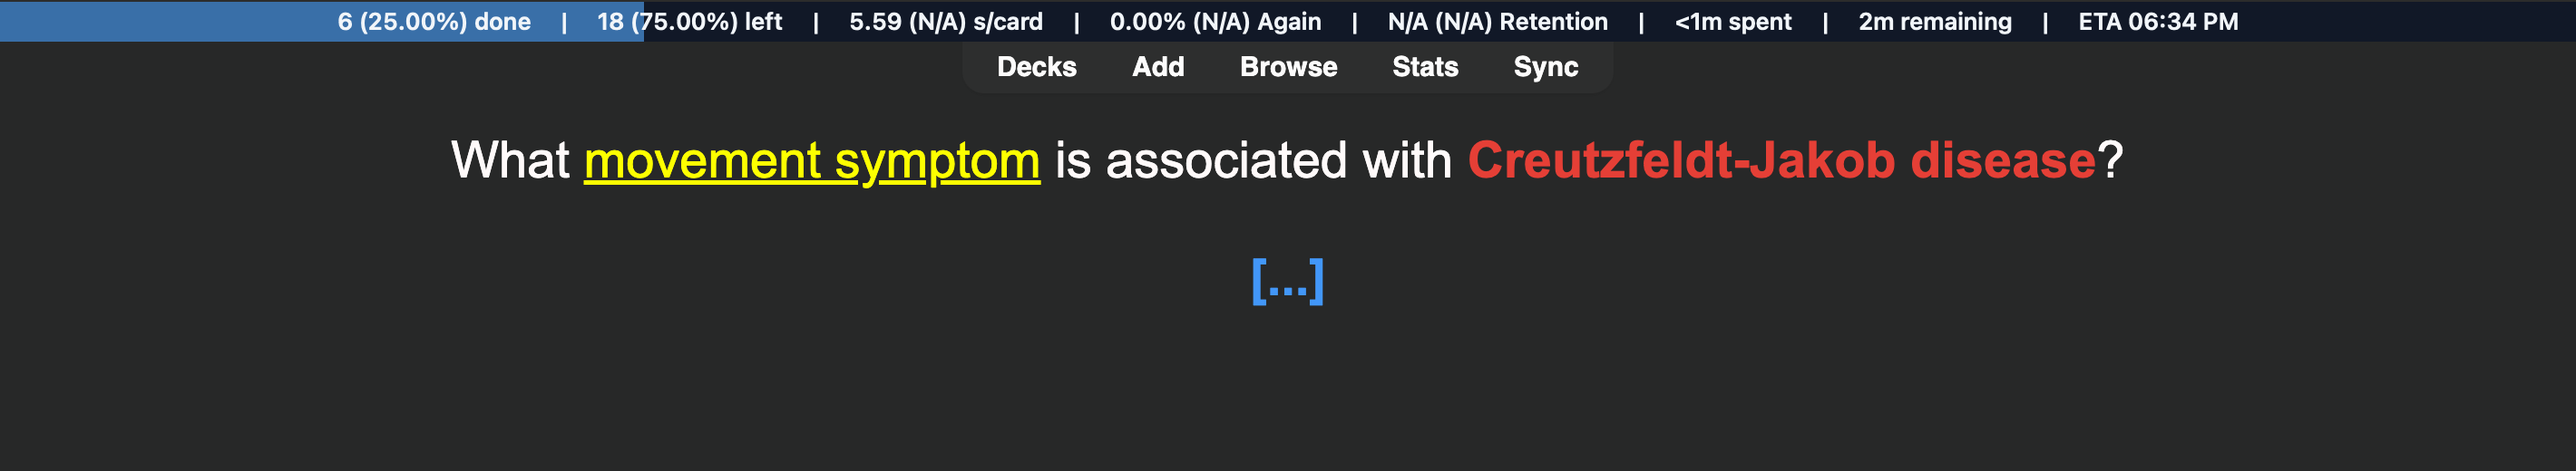
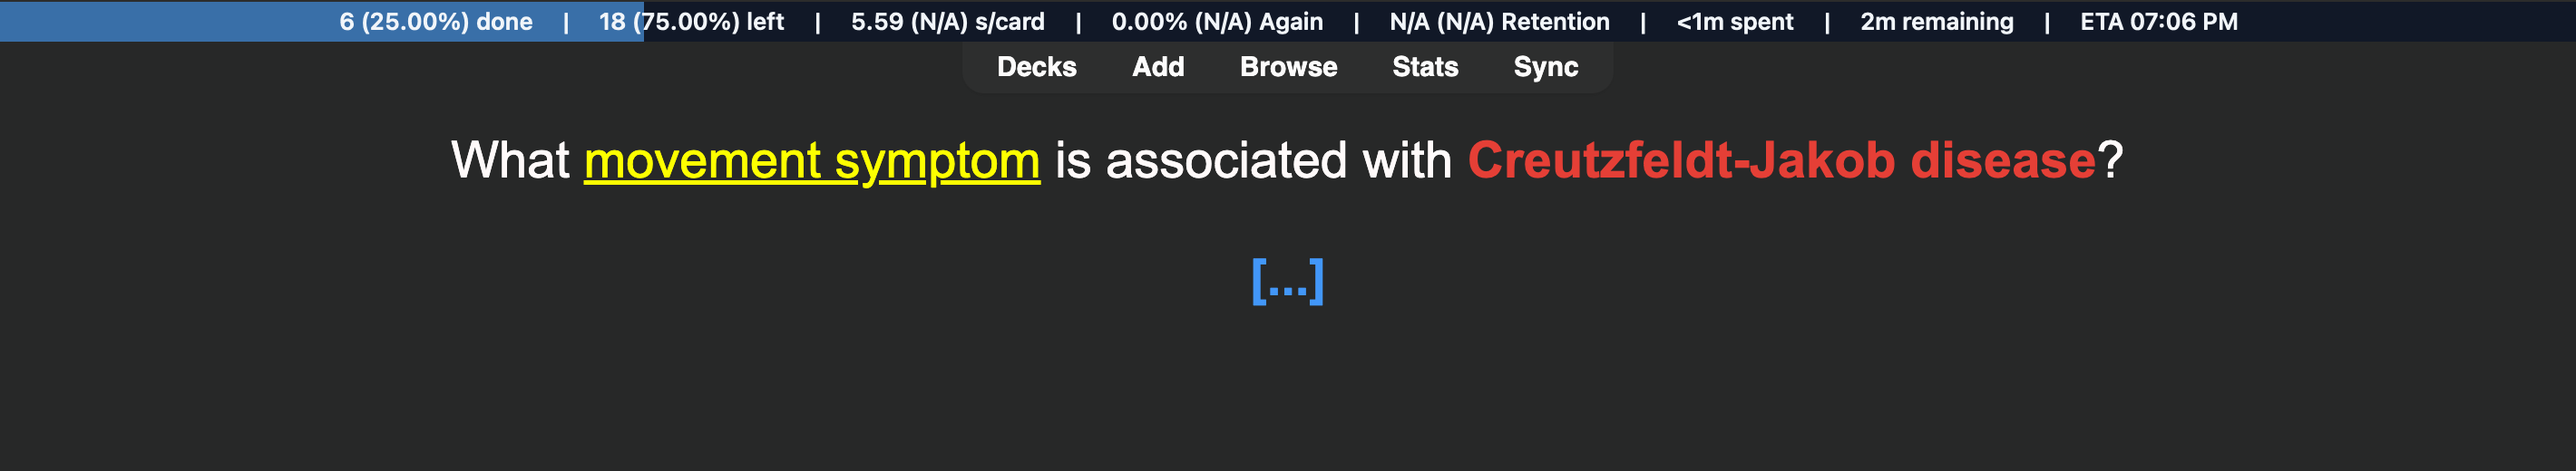
Release v1.1.7 with reviewer-only gallery

Changed region(s): [[0.1239, 0.0308, 0.8676, 0.0615]]

diff --git a/docs/ankiweb-description.html b/docs/ankiweb-description.html
@@ -2,8 +2,9 @@
 <p><b>Progress Bar Reforged</b> gives you a clear view of today's Anki study session: how much you have completed, how many cards are left, and when you are likely to finish.</p>
 <p>The bar sits above or below your cards, keeping your progress in view while you study.</p>
 
-<h3>What's new in v1.1.6</h3>
+<h3>What's new in v1.1.7</h3>
 <ul>
+<li><b>Reviewer-focused gallery:</b> the current release images show the reviewer in Light and Dark themes. Add-on behavior is unchanged from v1.1.6.</li>
 <li><b>Redesigned Deck Breakdown:</b> a clearer daily summary and larger deck workload text in Light and Dark themes.</li>
 <li><b>Simpler controls:</b> Sort and Hide empty sit with the table; the summary has no info or Copy buttons, and Sort choices fit without clipping.</li>
 <li><b>Updated captures:</b> the two images below show the reviewer in both themes, captured natively in Anki 26.9.3.</li>
@@ -21,9 +22,9 @@
 <h3>Reviewer in both themes</h3>
 <p>These native captures use an AnKing card with the AnKing Notetypes add-on for its colored card text. The study counts are sample data. Open an image to view it at full size.</p>
 <p><b>Reviewer — Dark</b></p>
-<p><a href="https://raw.githubusercontent.com/caleblee789/Progress-Bar-Reforged/v1.1.6/screenshots/reviewer-dark.png"><img src="https://raw.githubusercontent.com/caleblee789/Progress-Bar-Reforged/v1.1.6/screenshots/reviewer-dark.png" alt="Progress Bar Reforged reviewer in Dark theme with an AnKing card and sample study progress" width="100%"></a></p>
+<p><a href="https://raw.githubusercontent.com/caleblee789/Progress-Bar-Reforged/v1.1.7/screenshots/reviewer-dark.png"><img src="https://raw.githubusercontent.com/caleblee789/Progress-Bar-Reforged/v1.1.7/screenshots/reviewer-dark.png" alt="Progress Bar Reforged reviewer in Dark theme with an AnKing card and sample study progress" width="100%"></a></p>
 <p><b>Reviewer — Light</b></p>
-<p><a href="https://raw.githubusercontent.com/caleblee789/Progress-Bar-Reforged/v1.1.6/screenshots/reviewer-light.png"><img src="https://raw.githubusercontent.com/caleblee789/Progress-Bar-Reforged/v1.1.6/screenshots/reviewer-light.png" alt="Progress Bar Reforged reviewer in Light theme with an AnKing card and sample study progress" width="100%"></a></p>
+<p><a href="https://raw.githubusercontent.com/caleblee789/Progress-Bar-Reforged/v1.1.7/screenshots/reviewer-light.png"><img src="https://raw.githubusercontent.com/caleblee789/Progress-Bar-Reforged/v1.1.7/screenshots/reviewer-light.png" alt="Progress Bar Reforged reviewer in Light theme with an AnKing card and sample study progress" width="100%"></a></p>
 
 <h3>Get started</h3>
 <ol>

diff --git a/tests/test_progress_bar.py b/tests/test_progress_bar.py
@@ -1752,7 +1752,7 @@ def test_package_builder_manifest_uses_canonical_addon_id(tmp_path):
     assert manifest["package"] == "1511983907"
     assert manifest["min_point_version"] == 49
     assert manifest["max_point_version"] == 260500
-    assert manifest["human_version"] == "1.1.6"
+    assert manifest["human_version"] == "1.1.7"
 
 
 def test_minimum_advertised_anki_version_uses_modern_gui_hooks(addon_module):

diff --git a/README.md b/README.md
@@ -3,14 +3,19 @@ Progress Bar Reforged for Anki
 
 Progress Bar Reforged adds a progress bar to Anki's reviewer. It shows how much of today's review work is done, how much is left, how fast you are moving, and when you are likely to finish.
 
-Current release: **v1.1.6**. [Install from AnkiWeb](https://ankiweb.net/shared/info/1511983907) with code `1511983907`, or download `progress_bar_time_left.ankiaddon` from the [latest GitHub release](https://github.com/caleblee789/Progress-Bar-Reforged/releases/latest).
+Current release: **v1.1.7**. [Install from AnkiWeb](https://ankiweb.net/shared/info/1511983907) with code `1511983907`, or download `progress_bar_time_left.ankiaddon` from the [latest GitHub release](https://github.com/caleblee789/Progress-Bar-Reforged/releases/latest).
+
+What's new in v1.1.7
+--------------------
+
+* **Reviewer-focused gallery** - the current release images show the reviewer in Light and Dark themes with an AnKing card. Add-on behavior is unchanged from v1.1.6.
 
 What's new in v1.1.6
 --------------------
 
 * **Redesigned Deck Breakdown** - a clearer daily summary and a larger, more readable deck workload table in Light and Dark themes.
 * **Simpler controls** - Sort and Hide empty sit with the table; the summary no longer has the info and Copy buttons, and Sort choices fit without clipping.
-* **Updated screenshots** - native Anki 26.9.3 captures show both themes with an AnKing card. The deck workload shown is sample data.
+* **Updated screenshots** - native Anki 26.9.3 captures show both themes with an AnKing card and sample deck workload.
 
 What's new in v1.1.5
 --------------------
@@ -74,12 +79,11 @@ The add-on is designed for Anki desktop 2.1.49 and newer. See the [v1.1.4 releas
 Screenshots
 -----------
 
-These native Anki 26.9.3 captures use an AnKing card with the AnKing Notetypes add-on for card styling. The deck workload is sample data.
+These native Anki 26.9.3 captures use an AnKing card with the AnKing Notetypes add-on for card styling. Study counts are sample data.
 
 | | Dark | Light |
 | --- | --- | --- |
 | Reviewer | [![Reviewer in Dark theme](screenshots/reviewer-dark.png)](screenshots/reviewer-dark.png) | [![Reviewer in Light theme](screenshots/reviewer-light.png)](screenshots/reviewer-light.png) |
-| Deck Breakdown | [![Deck Breakdown in Dark theme](screenshots/deck-breakdown-dark.png)](screenshots/deck-breakdown-dark.png) | [![Deck Breakdown in Light theme](screenshots/deck-breakdown-light.png)](screenshots/deck-breakdown-light.png) |
 
 Installation
 ------------
